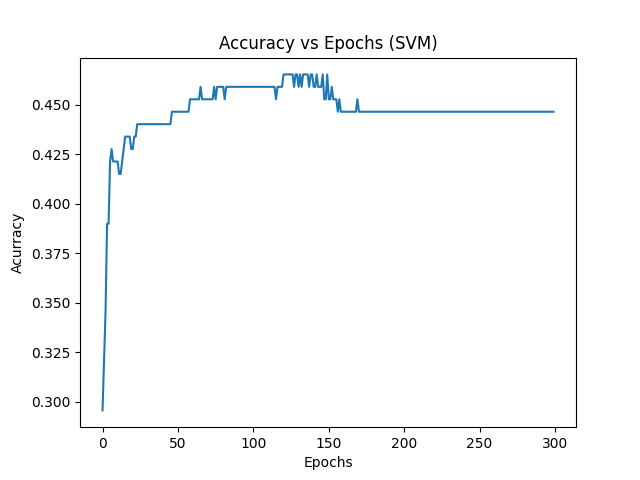
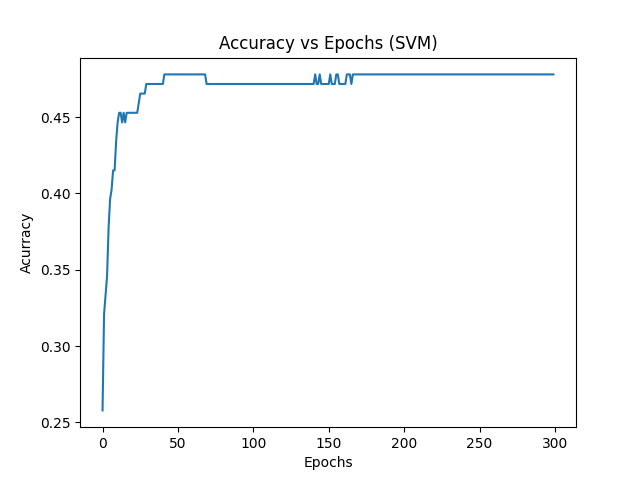
First version of batch gradient descent added

diff --git a/Act:Training/basic_perceptron.py b/Act:Training/basic_perceptron.py
@@ -22,7 +22,35 @@ class Perceptron:
     def predict(self,input):
         weighted_input = np.dot(input, self.weights) + self.bias
         return self.activation_funtion(weighted_input)
-        
+    
+    def mse_cost(self,predition,truth):
+        return np.mean((np.square(truth-predition)))
+    
+    def display_metrics(self,cost,accur,type):
+        accuracy = np.array(accur)
+        costs = np.array(cost)
+        plt.figure(1)
+        plt.plot(np.arange(self.epochs), accuracy)
+        plt.xlabel("Epochs")
+        plt.ylabel("Acurracy")
+        if(self.use_svm):
+            plt.title("Accuracy vs Epochs (SVM)")
+            plt.savefig(f"./out/single_neuron_{type}_svm.png")
+        else: 
+            plt.title("Accuracy vs Epochs")
+            plt.savefig(f"./out/single_neuron_{type}.png")
+        plt.figure(2)
+        plt.plot(np.arange(self.epochs), costs)
+        plt.xlabel("Epochs")
+        plt.ylabel("Cost")
+        if(self.use_svm):
+            plt.title("Cost vs Epochs (SVM)")
+            plt.savefig(f"./out/cost_{type}_svm.png")
+        else: 
+            plt.title("Accuracy vs Epochs")
+            plt.savefig(f"./out/cost_{type}.png")
+        plt.show()
+
     def stochastic_gradient_descent(self, train, validate, x_test, y_test, learning_rate):
         print(f"Starting training with {self.epochs} epochs and stochastic_gradient_descent")
         alpha = learning_rate
@@ -30,6 +58,7 @@ class Perceptron:
         number_features = train.shape[1]
         self.weights = 2*np.random.rand(number_features)-1
         accuracy = []
+        costs    = []
         for epoch in range(self.epochs):
             indexes = np.random.permutation(number_indexes)
             for index in indexes:
@@ -43,45 +72,31 @@ class Perceptron:
                 test_prediction = self.predict(x_test)
                 acc = accuracy_score(y_test,test_prediction)
                 accuracy.append(acc)
+                costs.append(self.mse_cost(test_prediction,y_test))
         if x_test is not None and y_test is not None:
-            #Display accuracy
-            accuracy = np.array(accuracy)
-            plt.plot(np.arange(self.epochs), accuracy)
-            plt.xlabel("Epochs")
-            plt.ylabel("Acurracy")
-            if(self.use_svm):
-                plt.title("Accuracy vs Epochs (SVM)")
-                plt.savefig("./out/single_neuron_stochastic_svm.png")
-            else: 
-                plt.title("Accuracy vs Epochs")
-                plt.savefig("./out/single_neuron_stochastic.png")
-            plt.show()
+            self.display_metrics(costs,accuracy,'stochastic')
         return self.weights, self.bias
     
     def batch_gradient_descent(self, train, validate, x_test, y_test, learning_rate):
         alpha = learning_rate
-        number_indexes = train.shape[0]
         number_features = train.shape[1]
         self.weights = np.ones(shape=(number_features))
         accuracy = []
+        costs    = []
         for epoch in range(self.epochs):
-            indexes = np.random.permutation(number_indexes)
-            for index in indexes:
-                curr_pred = self.predict(train[index, :])
-                self.weights = self.weights + alpha*(validate[index]-curr_pred)*train[index, :]
+            pred = self.predict(train)
+            if(self.use_svm):
+                if validate*pred < 1:
+                    self.weights = self.weights + alpha*validate*train
+            elif(not self.use_svm):
+                self.weights = self.weights + alpha* np.dot((validate-pred),train)
             if x_test is not None and y_test is not None:
                 test_prediction = self.predict(x_test)
                 acc = accuracy_score(y_test,test_prediction)
                 accuracy.append(acc)
+                costs.append(self.mse_cost(test_prediction,y_test))
         if x_test is not None and y_test is not None:
-            #Display accuracy
-            accuracy = np.array(accuracy)
-            plt.plot(np.arange(self.epochs), accuracy)
-            plt.title("Accuracy vs Epochs")
-            plt.xlabel("Epochs")
-            plt.ylabel("Acurracy")
-            plt.savefig("./out/single_neuron_batch.png")
-            plt.show()
+            self.display_metrics(costs,accuracy,'batch')
         return self.weights, self.bias
     
     def mini_gradient_descent(self, train, validate, x_test, y_test, learning_rate):
@@ -112,8 +127,8 @@ class Perceptron:
             
     def train(self,training_type ,train, validate,x_test = None,y_test = None ,learning_rate = 0.001):
         if(training_type == 'stochastic'): return self.stochastic_gradient_descent(train, validate, x_test, y_test, learning_rate)
-        if(training_type == 'batch'): return self.batch_gradient_descent(train, validate)
-        if(training_type == 'mini_batch'): return self.mini_gradient_descent(train, validate)
+        if(training_type == 'batch'): return self.batch_gradient_descent(train, validate, x_test, y_test, learning_rate)
+        if(training_type == 'mini_batch'): return self.mini_gradient_descent(train, validate, x_test, y_test, learning_rate)
 
 if __name__ == "__main__":
     path = './data/misterious_data_1.txt'
@@ -121,5 +136,5 @@ if __name__ == "__main__":
     x = data[:,1:-1]
     y = data[:,0]
     X_train, X_test, y_train, y_test = train_test_split(x, y, test_size=0.3, random_state=42)
-    model = Perceptron(300,True)
-    model.train('stochastic',X_train,y_train,X_test,y_test,0.001)
+    model = Perceptron(300,False)
+    model.train('batch',X_train,y_train,X_test,y_test,0.001)
